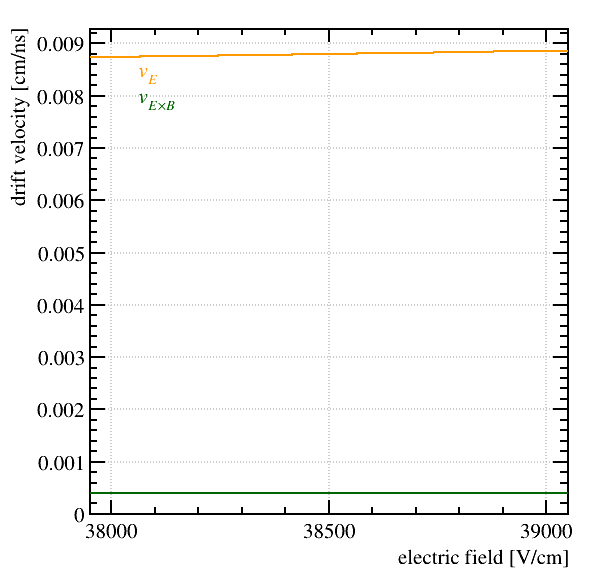
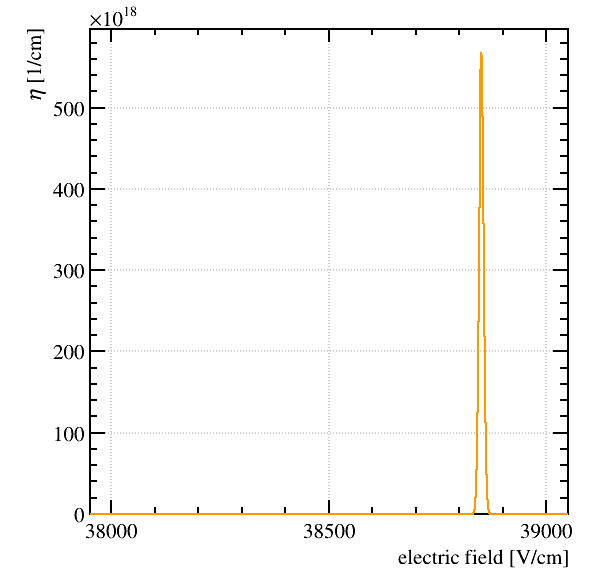
newGT_plot

diff --git a/claude_workspace/Generator_GasFile/GenerateGasTable/gas_files/read.py b/claude_workspace/Generator_GasFile/GenerateGasTable/gas_files/read.py
@@ -13,23 +13,23 @@ view.SetMagneticField(2.)
 cV = ROOT.TCanvas('cV', '', 600, 600)
 view.SetCanvas(cV)
 view.PlotElectronVelocity()
-cV.SaveAs('plots/PlotElectronVelocity.png')
 cV.Update()
+cV.SaveAs('plots/PlotElectronVelocity.png')
 
 cD = ROOT.TCanvas('cD', '', 600, 600)
 view.SetCanvas(cD)
 view.PlotElectronDiffusion()
-cV.SaveAs('plots/PlotElectronDiffusion.png')
-cV.Update()
+cD.Update()
+cD.SaveAs('plots/PlotElectronDiffusion.png')
 
 cT = ROOT.TCanvas('cT', '', 600, 600)
 view.SetCanvas(cT)
 view.PlotElectronTownsend()
-cV.SaveAs('plots/PlotElectronTownsend.png')
-cV.Update()
+cT.Update()
+cT.SaveAs('plots/PlotElectronTownsend.png')
 
 cA = ROOT.TCanvas('cA', '', 600, 600)
 view.SetCanvas(cA)
 view.PlotElectronAttachment()
-cV.SaveAs('plots/PlotElectronAttachment.png')
-cV.Update()
+cA.Update()
+cA.SaveAs('plots/PlotElectronAttachment.png')
